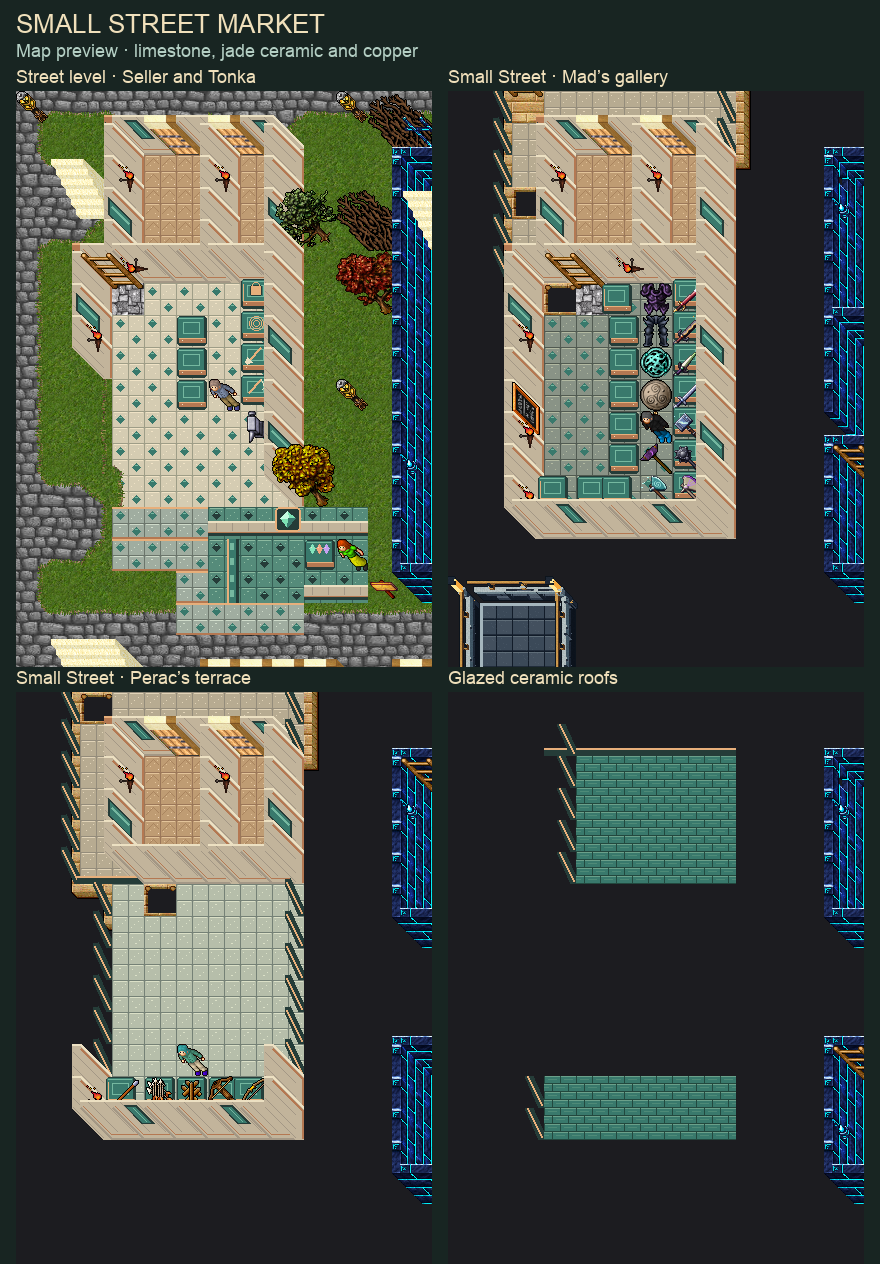
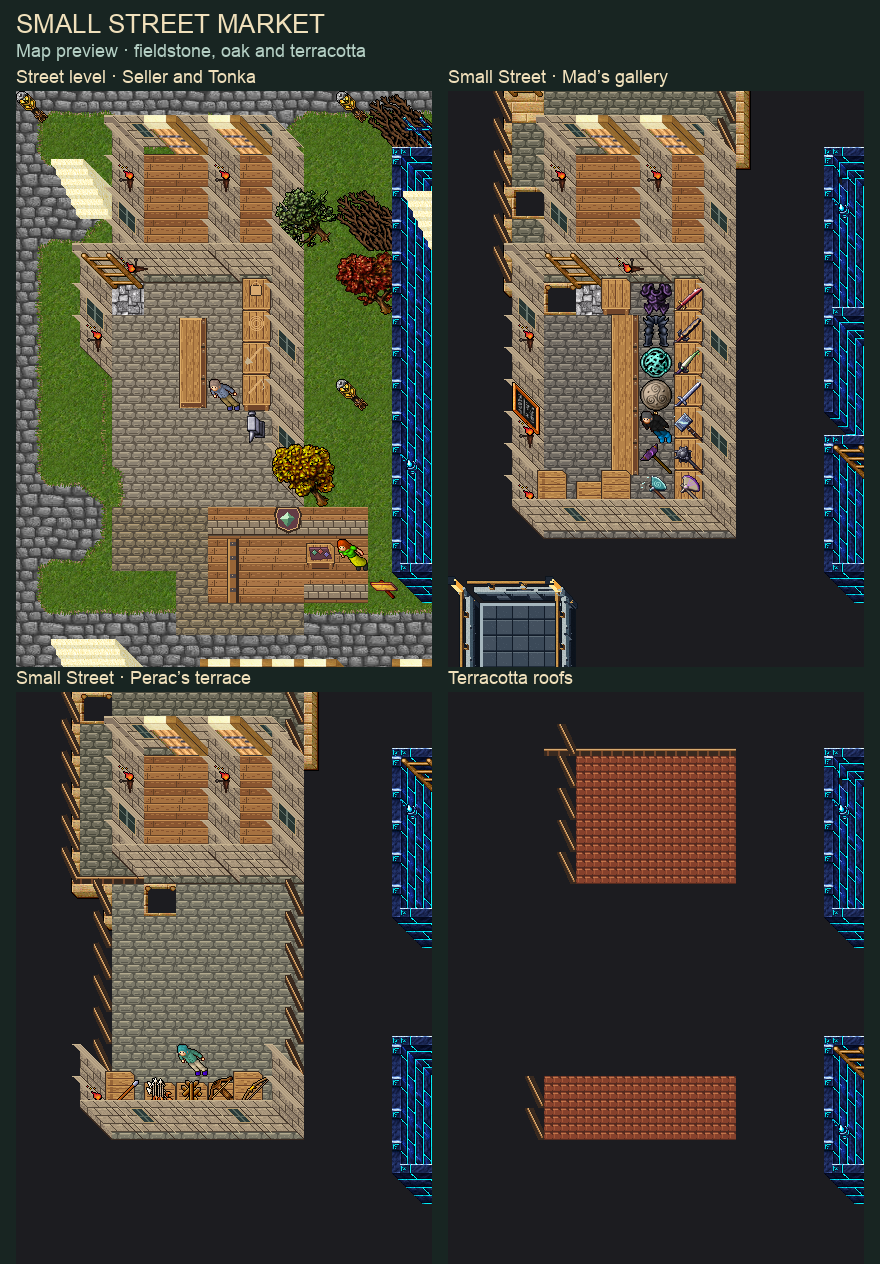
Join Seller's oak counter and update the market previews

diff --git a/scripts/map/render-seller-market.py b/scripts/map/render-seller-market.py
@@ -12,12 +12,13 @@ from game_render import Sprites, creature_image, parse_dat_all
 from mapdata import MAP, REPO, Renderer, load_tiles
 
 OUT = REPO / 'docs/items-and-map/img/tienda-seller/small-street-market.png'
+DETAIL = OUT.with_name('small-street-counters.png')
 BOX = (139, 41, 151, 58)
 CAPTIONS = (
     (7, 'Street level · Seller and Tonka'),
     (6, 'Small Street · Mad’s gallery'),
     (5, 'Small Street · Perac’s terrace'),
-    (4, 'Glazed ceramic roofs'),
+    (4, 'Terracotta roofs'),
 )
 
 
@@ -31,7 +32,7 @@ def main():
     title = ImageFont.truetype('/System/Library/Fonts/Supplemental/Arial.ttf', 26)
     text = ImageFont.truetype('/System/Library/Fonts/Supplemental/Arial.ttf', 18)
     draw.text((16, 9), 'SMALL STREET MARKET', font=title, fill='#f0e0bb')
-    draw.text((16, 40), 'Map preview · limestone, jade ceramic and copper', font=text, fill='#b4cfc4')
+    draw.text((16, 40), 'Map preview · fieldstone, oak and terracotta', font=text, fill='#b4cfc4')
     for i, (z, caption) in enumerate(CAPTIONS):
         w, h, rgba = renderer.area(tiles, *BOX, z)
         panel = Image.frombytes('RGBA', (w, h), bytes(rgba))
@@ -44,11 +45,27 @@ def main():
             actor = creature_image(look, outfits, sprites)
             x, y = int(npc.get('x')), int(npc.get('y'))
             panel.alpha_composite(actor, ((x-BOX[0]+1)*32-actor.width, (y-BOX[1]+1)*32-actor.height))
+        if z == 7:
+            street = panel.convert('RGB')
         x, y = 16 + i % 2 * 432, 66 + i // 2 * 601
         draw.text((x, y), caption, font=text, fill='#f0e0bb')
         canvas.paste(panel.convert('RGB'), (x, y+25))
     canvas.save(OUT, optimize=True)
+    detail = Image.new('RGB', (820, 466), '#182522')
+    draw = ImageDraw.Draw(detail)
+    draw.text((16, 9), 'SMALL STREET · SHOP COUNTERS', font=title, fill='#f0e0bb')
+    for x, label, box in (
+        (16, 'Seller · Oak counter', (142, 47, 147, 52)),
+        (420, 'Tonka · Gem counter', (145, 53, 150, 58)),
+    ):
+        draw.text((x, 47), label, font=text, fill='#f0e0bb')
+        left, top, right, bottom = box
+        crop = street.crop(((left-BOX[0])*32, (top-BOX[1])*32,
+                            (right-BOX[0]+1)*32, (bottom-BOX[1]+1)*32))
+        detail.paste(crop.resize((crop.width*2, crop.height*2), Image.Resampling.NEAREST), (x, 73))
+    detail.save(DETAIL, optimize=True)
     print(OUT)
+    print(DETAIL)
 
 
 if __name__ == '__main__':

diff --git a/scripts/map/style-seller-market.py b/scripts/map/style-seller-market.py
@@ -15,6 +15,7 @@ from mapdata import MAP, REPO, load_otb, parse_tree, serialize_tree
 from epstein_cave_repair import index, connected
 from portal_temple_style import item_offsets
 from seller_market_art import (
+    COUNTER_NORTH, COUNTER_SOUTH,
     FLOOR_IDS, REPLACEMENTS, SELLER_DISPLAY, TONKA_COUNTER, TONKA_CREST, TONKA_DIVIDER, TONKA_SIDE,
 )
 
@@ -25,6 +26,7 @@ HOUSE_TILES = {(x, y, z) for x in (143, 144, 146) for y in range(43, 46) for z i
 SELLER_OPEN = {(144, 47): 1624, (144, 51): 1622, (144, 52): 1628,
                (145, 52): 1623, (146, 52): 1627}
 SELLER_CASES = {47: (1621, 1988), 48: (1620, 2120), 49: (1620, 2554), 50: (1620, 2580)}
+COUNTER_ENDS = {(144, 48, 7): COUNTER_NORTH, (144, 50, 7): COUNTER_SOUTH}
 TONKA_FURNITURE = {
     (145,54): TONKA_DIVIDER, (146,54): TONKA_DIVIDER, (147,54): TONKA_CREST,
     (148,54): TONKA_DIVIDER, (149,54): TONKA_DIVIDER, (145,55): TONKA_SIDE,
@@ -88,8 +90,11 @@ def paint(nodes, values, otb):
                 changes['equipment displays'] += 1
         for props, offset in item_offsets(tile, otb):
             sid = struct.unpack_from('<H', props, offset)[0]
-            if sid in REPLACEMENTS:
-                struct.pack_into('<H', props, offset, REPLACEMENTS[sid])
+            replacement = REPLACEMENTS.get(sid)
+            if p in COUNTER_ENDS and sid in (1622, REPLACEMENTS[1622]):
+                replacement = COUNTER_ENDS[p]
+            if replacement is not None:
+                struct.pack_into('<H', props, offset, replacement)
                 changes['fixture aliases'] += 1
         allowed = {405, 431, 920}
         if (not allowed.intersection(ids) or set(ids).intersection({1385, 1386})):

diff --git a/docs/items-and-map/MAPEAR_TIENDA_SELLER.md b/docs/items-and-map/MAPEAR_TIENDA_SELLER.md
@@ -1,23 +1,26 @@
 # Tienda de Seller y Small Street
 
-El rediseño convierte el edificio y sus seis casas en un conjunto de piedra
-caliza, cerámica jade y cobre. Las casas Small Street I–VI quedan con pisos cálidos
-y ventanas verdes. Seller tiene un mosaico claro, Mad uno verde grisáceo y Perac una
-terraza clara con barandas de cobre. El remate superior usa cerámica verde.
+El acabado clásico usa piedra labrada, madera y teja de terracota. Las seis casas
+Small Street tienen tablones cálidos y ventanas con postigos. Seller tiene un piso
+de losas, Mad una galería de piedra gris y Perac una terraza con barandas de roble.
+La calle usa adoquines planos para distinguirse de los interiores.
 
 ![Small Street y las tiendas de Seller y Tonka por piso](img/tienda-seller/small-street-market.png)
 
 - **Seller** (`145,50,7`). Se liberaron cinco casillas al acortar el mostrador
-  central y abrir el frente sur. Cuatro exhibidores fijos llevan los dibujos de
-  la mochila, cuerda, pala y caña, antes objetos sueltos. Se conserva el yunque.
+  central y abrir el frente sur. El mesón de roble tiene cubierta corrida, dos
+  remates y herrajes. Cuatro exhibidores fijos identifican la mochila, cuerda,
+  pala y caña. Se conserva el yunque.
 - **Tonka** (`149,55,7`). Local abierto de 5×3 al sur de Seller, con acceso desde
-  `146–147,57,7`. El mostrador `148,55,7` incorpora tres gemas y el emblema da luz
-  cálida. Se mudó el NPC existente con el mismo intercambio de gemas.
+  `146–147,57,7`. El mostrador `148,55,7` tiene un paño granate con tres gemas y
+  el emblema da luz cálida. Usa el mismo intercambio de gemas.
 - **Small Street I–VI.** Las 27 casillas de casas mantienen sus coordenadas,
   puertas y atributos. Las piezas nuevas son fijas. Se conservan las escaleras y
   los displays de Mad y Perac.
 
-El pack exclusivo ocupa **20600–20642** (cliente **6000–6042**). Los pisos usan
+![Detalle de los mostradores de Seller y Tonka](img/tienda-seller/small-street-counters.png)
+
+El pack exclusivo ocupa **20600–20644** (cliente **6000–6044**). Los pisos usan
 una capa decorativa sobre los suelos existentes para conservar sus velocidades.
 Los alias conservan colisión, proyectiles, orientación y altura de cada prototipo.
 El nuevo local convierte pasto en piso de tienda. El camino tiene una sección
@@ -28,7 +31,7 @@ python3.11 scripts/client-rme/seller_market_art.py
 python3.11 scripts/client-rme/add_custom_items.py \
   --things devtools/rme/rme-client-760 \
   --otb server/YurOTS/ots/data/items/items-zagan-test.otb \
-  --otb server/YurOTS/ots/data/items/items.otb --only {20600..20642}
+  --otb server/YurOTS/ots/data/items/items.otb --only {20600..20644}
 python3.11 scripts/map/style-seller-market.py
 python3.11 scripts/map/style-seller-market.py --apply
 python3.11 scripts/map/render-seller-market.py
@@ -38,7 +41,7 @@ El script conserva los atributos de los tiles de casa y comprueba acceso cardina
 desde el camino sur a los dos mostradores. Para aplicar en la ThinkPad se publican
 primero DAT, SPR y minimapa con el actualizador de cliente.
 
-## Aplicado en la ThinkPad — 23 nov 2026
+## Publicación inicial — 23 nov 2026
 
 Arte `5575dd0`, mapa y NPC `80f328f`, cliente Mac y Windows `3add786`, todos en
 `main`. `publish_client.py` actualizó DAT (`b67595c8`), SPR (`0069fd95`) y minimapa
